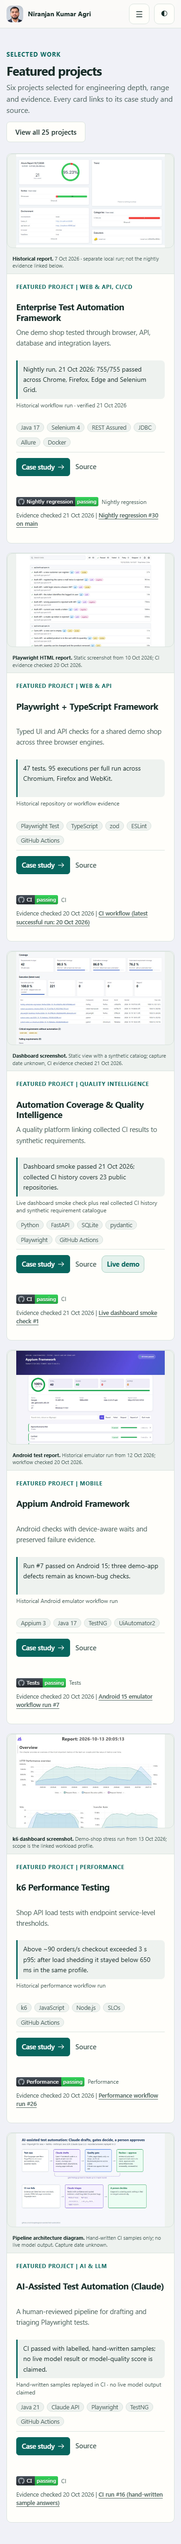
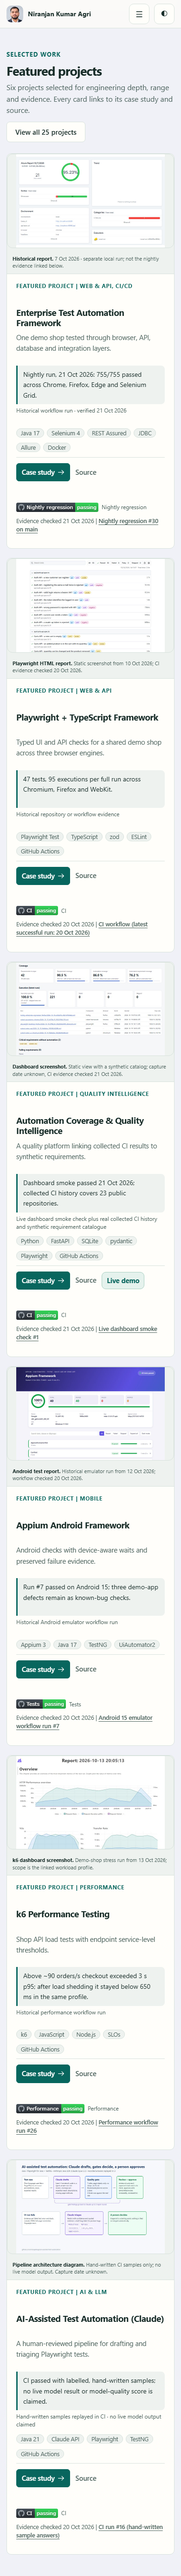
Align featured project metadata at tablet widths

diff --git a/projects/ai-assisted-testing.html b/projects/ai-assisted-testing.html
@@ -2,7 +2,7 @@
 <html lang="en"><head><meta charset="utf-8"><meta name="viewport" content="width=device-width, initial-scale=1">
 <title>AI-Assisted Test Automation (Claude) | Project case study | Niranjan Kumar Agri</title><meta name="description" content="All Java: a demo app in the repository, the Anthropic Java SDK with typed structured outputs, repair rounds fed by the gate, an approve step that marks AI-written tests, and AI failure triage into product bug, test bug, environment or flaky. Answers are recorded, so CI replays them without an API key; until the first live run, CI runs the pipeline on hand-written sample answers that every report labels as samples.">
 <link rel="canonical" href="https://niranjankagri.github.io/projects/ai-assisted-testing.html"><meta property="og:title" content="AI-Assisted Test Automation (Claude) | Niranjan Kumar Agri"><meta property="og:description" content="All Java: a demo app in the repository, the Anthropic Java SDK with typed structured outputs, repair rounds fed by the gate, an approve step that marks AI-written tests, and AI failure triage into product bug, test bug, environment or flaky. Answers are recorded, so CI replays them without an API key; until the first live run, CI runs the pipeline on hand-written sample answers that every report labels as samples."><meta property="og:type" content="article"><meta property="og:url" content="https://niranjankagri.github.io/projects/ai-assisted-testing.html"><meta property="og:image" content="https://niranjankagri.github.io/img/ai-testing.jpg"><meta name="twitter:card" content="summary_large_image">
-<link rel="stylesheet" href="../style.css?v=2cf59285fc9c"><script>try{var t=localStorage.getItem('na-theme');if(t)document.documentElement.dataset.theme=t}catch(e){}</script></head>
+<link rel="stylesheet" href="../style.css?v=ca7ec084cedc"><script>try{var t=localStorage.getItem('na-theme');if(t)document.documentElement.dataset.theme=t}catch(e){}</script></head>
 <body>
 <a class="skip" href="#main">Skip to content</a>
 <header class="nav"><div class="wrap">
@@ -34,4 +34,4 @@ ai approve TC-103 Your Name         :: move a passed draft into src/test</code><
   <nav aria-label="Evidence"><h2>Evidence</h2><a href="../projects/playwright-typescript.html#results">Cross-browser execution</a><a href="../projects/k6-performance.html#results">Performance testing</a><a href="../projects/quality-intelligence.html#results">Quality intelligence</a></nav>
   <nav aria-label="Connect"><h2>Connect</h2><a href="mailto:niranjankagri@gmail.com">Email</a><a href="https://www.linkedin.com/in/niranjan-kumar-agri/" target="_blank" rel="noopener">LinkedIn</a><a href="https://github.com/niranjankagri/" target="_blank" rel="noopener">GitHub</a><a href="../Niranjan_Kumar_Agri_CV_Technical_Lead_QA_SDET.pdf" download>Download CV</a><a href="https://github.com/niranjankagri/niranjankagri.github.io" target="_blank" rel="noopener">Website source</a></nav>
 </div></footer>
-<script src="../theme.js?v=2cf59285fc9c" defer></script></body></html>
+<script src="../theme.js?v=ca7ec084cedc" defer></script></body></html>

diff --git a/projects/llm-feature-testing.html b/projects/llm-feature-testing.html
@@ -2,7 +2,7 @@
 <html lang="en"><head><meta charset="utf-8"><meta name="viewport" content="width=device-width, initial-scale=1">
 <title>Testing an LLM Feature (Claude) | Project case study | Niranjan Kumar Agri</title><meta name="description" content="An HR policy assistant on Claude and the harness that decides whether it can ship: structured replies, deterministic checks for facts, citations, a canary and colleagues&#x27; data, a calibrated groundedness judge, pass rates per area, and 90 tests of the harness itself, including a run on hand-written answers with planted leaks that the harness must catch.">
 <link rel="canonical" href="https://niranjankagri.github.io/projects/llm-feature-testing.html"><meta property="og:title" content="Testing an LLM Feature (Claude) | Niranjan Kumar Agri"><meta property="og:description" content="An HR policy assistant on Claude and the harness that decides whether it can ship: structured replies, deterministic checks for facts, citations, a canary and colleagues&#x27; data, a calibrated groundedness judge, pass rates per area, and 90 tests of the harness itself, including a run on hand-written answers with planted leaks that the harness must catch."><meta property="og:type" content="article"><meta property="og:url" content="https://niranjankagri.github.io/projects/llm-feature-testing.html"><meta property="og:image" content="https://niranjankagri.github.io/img/llm-evals.jpg"><meta name="twitter:card" content="summary_large_image">
-<link rel="stylesheet" href="../style.css?v=2cf59285fc9c"><script>try{var t=localStorage.getItem('na-theme');if(t)document.documentElement.dataset.theme=t}catch(e){}</script></head>
+<link rel="stylesheet" href="../style.css?v=ca7ec084cedc"><script>try{var t=localStorage.getItem('na-theme');if(t)document.documentElement.dataset.theme=t}catch(e){}</script></head>
 <body>
 <a class="skip" href="#main">Skip to content</a>
 <header class="nav"><div class="wrap">
@@ -36,4 +36,4 @@ llm eval                               :: golden set + calibration (needs ANTHRO
   <nav aria-label="Evidence"><h2>Evidence</h2><a href="../projects/playwright-typescript.html#results">Cross-browser execution</a><a href="../projects/k6-performance.html#results">Performance testing</a><a href="../projects/quality-intelligence.html#results">Quality intelligence</a></nav>
   <nav aria-label="Connect"><h2>Connect</h2><a href="mailto:niranjankagri@gmail.com">Email</a><a href="https://www.linkedin.com/in/niranjan-kumar-agri/" target="_blank" rel="noopener">LinkedIn</a><a href="https://github.com/niranjankagri/" target="_blank" rel="noopener">GitHub</a><a href="../Niranjan_Kumar_Agri_CV_Technical_Lead_QA_SDET.pdf" download>Download CV</a><a href="https://github.com/niranjankagri/niranjankagri.github.io" target="_blank" rel="noopener">Website source</a></nav>
 </div></footer>
-<script src="../theme.js?v=2cf59285fc9c" defer></script></body></html>
+<script src="../theme.js?v=ca7ec084cedc" defer></script></body></html>

diff --git a/projects/mobile-test-automation-framework.html b/projects/mobile-test-automation-framework.html
@@ -2,7 +2,7 @@
 <html lang="en"><head><meta charset="utf-8"><meta name="viewport" content="width=device-width, initial-scale=1">
 <title>Mobile Framework (2021, upgraded for Android + iOS) | Project case study | Niranjan Kumar Agri</title><meta name="description" content="My 2021 Appium + TestNG framework, upgraded in 2026 to Appium 3, Java client 11 and Selenium 4 without changing its design: one set of tests for Android and iOS through a platform layer, capabilities per platform in properties files, and a custom HTML report with failure screenshots. Runs green on an Android 15 emulator; the iOS side is ready but not yet run.">
 <link rel="canonical" href="https://niranjankagri.github.io/projects/mobile-test-automation-framework.html"><meta property="og:title" content="Mobile Framework (2021, upgraded for Android + iOS) | Niranjan Kumar Agri"><meta property="og:description" content="My 2021 Appium + TestNG framework, upgraded in 2026 to Appium 3, Java client 11 and Selenium 4 without changing its design: one set of tests for Android and iOS through a platform layer, capabilities per platform in properties files, and a custom HTML report with failure screenshots. Runs green on an Android 15 emulator; the iOS side is ready but not yet run."><meta property="og:type" content="article"><meta property="og:url" content="https://niranjankagri.github.io/projects/mobile-test-automation-framework.html"><meta property="og:image" content="https://niranjankagri.github.io/img/real-devices.jpg"><meta name="twitter:card" content="summary_large_image">
-<link rel="stylesheet" href="../style.css?v=2cf59285fc9c"><script>try{var t=localStorage.getItem('na-theme');if(t)document.documentElement.dataset.theme=t}catch(e){}</script></head>
+<link rel="stylesheet" href="../style.css?v=ca7ec084cedc"><script>try{var t=localStorage.getItem('na-theme');if(t)document.documentElement.dataset.theme=t}catch(e){}</script></head>
 <body>
 <a class="skip" href="#main">Skip to content</a>
 <header class="nav"><div class="wrap">
@@ -27,4 +27,4 @@
   <nav aria-label="Evidence"><h2>Evidence</h2><a href="../projects/playwright-typescript.html#results">Cross-browser execution</a><a href="../projects/k6-performance.html#results">Performance testing</a><a href="../projects/quality-intelligence.html#results">Quality intelligence</a></nav>
   <nav aria-label="Connect"><h2>Connect</h2><a href="mailto:niranjankagri@gmail.com">Email</a><a href="https://www.linkedin.com/in/niranjan-kumar-agri/" target="_blank" rel="noopener">LinkedIn</a><a href="https://github.com/niranjankagri/" target="_blank" rel="noopener">GitHub</a><a href="../Niranjan_Kumar_Agri_CV_Technical_Lead_QA_SDET.pdf" download>Download CV</a><a href="https://github.com/niranjankagri/niranjankagri.github.io" target="_blank" rel="noopener">Website source</a></nav>
 </div></footer>
-<script src="../theme.js?v=2cf59285fc9c" defer></script></body></html>
+<script src="../theme.js?v=ca7ec084cedc" defer></script></body></html>

diff --git a/projects/quality-intelligence.html b/projects/quality-intelligence.html
@@ -2,7 +2,7 @@
 <html lang="en"><head><meta charset="utf-8"><meta name="viewport" content="width=device-width, initial-scale=1">
 <title>Automation Coverage &amp; Quality Intelligence | Project case study | Niranjan Kumar Agri</title><meta name="description" content="A quality engineering platform that imports daily CI results from 23 public repositories and 59 workflow jobs, links them to a synthetic requirement catalog, and provides history, traceability, pipeline grouping, trends, comparisons and release gates. The public dashboard reads the collected history.">
 <link rel="canonical" href="https://niranjankagri.github.io/projects/quality-intelligence.html"><meta property="og:title" content="Automation Coverage &amp; Quality Intelligence | Niranjan Kumar Agri"><meta property="og:description" content="A quality engineering platform that imports daily CI results from 23 public repositories and 59 workflow jobs, links them to a synthetic requirement catalog, and provides history, traceability, pipeline grouping, trends, comparisons and release gates. The public dashboard reads the collected history."><meta property="og:type" content="article"><meta property="og:url" content="https://niranjankagri.github.io/projects/quality-intelligence.html"><meta property="og:image" content="https://niranjankagri.github.io/img/quality-intelligence.jpg"><meta name="twitter:card" content="summary_large_image">
-<link rel="stylesheet" href="../style.css?v=2cf59285fc9c"><script>try{var t=localStorage.getItem('na-theme');if(t)document.documentElement.dataset.theme=t}catch(e){}</script></head>
+<link rel="stylesheet" href="../style.css?v=ca7ec084cedc"><script>try{var t=localStorage.getItem('na-theme');if(t)document.documentElement.dataset.theme=t}catch(e){}</script></head>
 <body>
 <a class="skip" href="#main">Skip to content</a>
 <header class="nav"><div class="wrap">
@@ -31,4 +31,4 @@ qi dashboard --catalog samples/catalog.toml --database demo-output/quality.db</c
   <nav aria-label="Evidence"><h2>Evidence</h2><a href="../projects/playwright-typescript.html#results">Cross-browser execution</a><a href="../projects/k6-performance.html#results">Performance testing</a><a href="../projects/quality-intelligence.html#results">Quality intelligence</a></nav>
   <nav aria-label="Connect"><h2>Connect</h2><a href="mailto:niranjankagri@gmail.com">Email</a><a href="https://www.linkedin.com/in/niranjan-kumar-agri/" target="_blank" rel="noopener">LinkedIn</a><a href="https://github.com/niranjankagri/" target="_blank" rel="noopener">GitHub</a><a href="../Niranjan_Kumar_Agri_CV_Technical_Lead_QA_SDET.pdf" download>Download CV</a><a href="https://github.com/niranjankagri/niranjankagri.github.io" target="_blank" rel="noopener">Website source</a></nav>
 </div></footer>
-<script src="../theme.js?v=2cf59285fc9c" defer></script></body></html>
+<script src="../theme.js?v=ca7ec084cedc" defer></script></body></html>

diff --git a/projects/java-selenium-testng-pom-framework.html b/projects/java-selenium-testng-pom-framework.html
@@ -2,7 +2,7 @@
 <html lang="en"><head><meta charset="utf-8"><meta name="viewport" content="width=device-width, initial-scale=1">
 <title>Selenium Page Object Framework (2024, upgraded) | Project case study | Niranjan Kumar Agri</title><meta name="description" content="My January 2024 Selenium + TestNG page object framework for OrangeHRM, upgraded step by step in 2026: explicit waits instead of fixed sleeps, browser and headless mode from a config file, and an Extent report with a screenshot on every failure. The upgrade also fixed a locator bug that had failed the logout test since 2024.">
 <link rel="canonical" href="https://niranjankagri.github.io/projects/java-selenium-testng-pom-framework.html"><meta property="og:title" content="Selenium Page Object Framework (2024, upgraded) | Niranjan Kumar Agri"><meta property="og:description" content="My January 2024 Selenium + TestNG page object framework for OrangeHRM, upgraded step by step in 2026: explicit waits instead of fixed sleeps, browser and headless mode from a config file, and an Extent report with a screenshot on every failure. The upgrade also fixed a locator bug that had failed the logout test since 2024."><meta property="og:type" content="article"><meta property="og:url" content="https://niranjankagri.github.io/projects/java-selenium-testng-pom-framework.html"><meta property="og:image" content="https://niranjankagri.github.io/img/selenium.jpg"><meta name="twitter:card" content="summary_large_image">
-<link rel="stylesheet" href="../style.css?v=2cf59285fc9c"><script>try{var t=localStorage.getItem('na-theme');if(t)document.documentElement.dataset.theme=t}catch(e){}</script></head>
+<link rel="stylesheet" href="../style.css?v=ca7ec084cedc"><script>try{var t=localStorage.getItem('na-theme');if(t)document.documentElement.dataset.theme=t}catch(e){}</script></head>
 <body>
 <a class="skip" href="#main">Skip to content</a>
 <header class="nav"><div class="wrap">
@@ -27,4 +27,4 @@
   <nav aria-label="Evidence"><h2>Evidence</h2><a href="../projects/playwright-typescript.html#results">Cross-browser execution</a><a href="../projects/k6-performance.html#results">Performance testing</a><a href="../projects/quality-intelligence.html#results">Quality intelligence</a></nav>
   <nav aria-label="Connect"><h2>Connect</h2><a href="mailto:niranjankagri@gmail.com">Email</a><a href="https://www.linkedin.com/in/niranjan-kumar-agri/" target="_blank" rel="noopener">LinkedIn</a><a href="https://github.com/niranjankagri/" target="_blank" rel="noopener">GitHub</a><a href="../Niranjan_Kumar_Agri_CV_Technical_Lead_QA_SDET.pdf" download>Download CV</a><a href="https://github.com/niranjankagri/niranjankagri.github.io" target="_blank" rel="noopener">Website source</a></nav>
 </div></footer>
-<script src="../theme.js?v=2cf59285fc9c" defer></script></body></html>
+<script src="../theme.js?v=ca7ec084cedc" defer></script></body></html>

diff --git a/projects/cucumber-bdd-demo.html b/projects/cucumber-bdd-demo.html
@@ -2,7 +2,7 @@
 <html lang="en"><head><meta charset="utf-8"><meta name="viewport" content="width=device-width, initial-scale=1">
 <title>Cucumber BDD Demo (2022, upgraded) | Project case study | Niranjan Kumar Agri</title><meta name="description" content="My first Cucumber project from 2022, which no longer built, brought to Java 17, Cucumber 8 (JUnit Platform runners) and Selenium 4 step by step, then split into layers: runners, step definitions, page objects, hooks and utils. Hooks attach a screenshot on failure, and a Scenario Outline that used to pass without checking anything now asserts each row.">
 <link rel="canonical" href="https://niranjankagri.github.io/projects/cucumber-bdd-demo.html"><meta property="og:title" content="Cucumber BDD Demo (2022, upgraded) | Niranjan Kumar Agri"><meta property="og:description" content="My first Cucumber project from 2022, which no longer built, brought to Java 17, Cucumber 8 (JUnit Platform runners) and Selenium 4 step by step, then split into layers: runners, step definitions, page objects, hooks and utils. Hooks attach a screenshot on failure, and a Scenario Outline that used to pass without checking anything now asserts each row."><meta property="og:type" content="article"><meta property="og:url" content="https://niranjankagri.github.io/projects/cucumber-bdd-demo.html"><meta property="og:image" content="https://niranjankagri.github.io/img/cucumber.jpg"><meta name="twitter:card" content="summary_large_image">
-<link rel="stylesheet" href="../style.css?v=2cf59285fc9c"><script>try{var t=localStorage.getItem('na-theme');if(t)document.documentElement.dataset.theme=t}catch(e){}</script></head>
+<link rel="stylesheet" href="../style.css?v=ca7ec084cedc"><script>try{var t=localStorage.getItem('na-theme');if(t)document.documentElement.dataset.theme=t}catch(e){}</script></head>
 <body>
 <a class="skip" href="#main">Skip to content</a>
 <header class="nav"><div class="wrap">
@@ -27,4 +27,4 @@
   <nav aria-label="Evidence"><h2>Evidence</h2><a href="../projects/playwright-typescript.html#results">Cross-browser execution</a><a href="../projects/k6-performance.html#results">Performance testing</a><a href="../projects/quality-intelligence.html#results">Quality intelligence</a></nav>
   <nav aria-label="Connect"><h2>Connect</h2><a href="mailto:niranjankagri@gmail.com">Email</a><a href="https://www.linkedin.com/in/niranjan-kumar-agri/" target="_blank" rel="noopener">LinkedIn</a><a href="https://github.com/niranjankagri/" target="_blank" rel="noopener">GitHub</a><a href="../Niranjan_Kumar_Agri_CV_Technical_Lead_QA_SDET.pdf" download>Download CV</a><a href="https://github.com/niranjankagri/niranjankagri.github.io" target="_blank" rel="noopener">Website source</a></nav>
 </div></footer>
-<script src="../theme.js?v=2cf59285fc9c" defer></script></body></html>
+<script src="../theme.js?v=ca7ec084cedc" defer></script></body></html>

diff --git a/projects/integration-testing-testcontainers.html b/projects/integration-testing-testcontainers.html
@@ -2,7 +2,7 @@
 <html lang="en"><head><meta charset="utf-8"><meta name="viewport" content="width=device-width, initial-scale=1">
 <title>Integration Testing with Testcontainers (Kafka, GraphQL) | Project case study | Niranjan Kumar Agri</title><meta name="description" content="An event-driven order service tested through its GraphQL API and Kafka topics: migrations on the real database, schema and validation errors, published events, idempotent consumption, retries and dead-letter handling, plus mutation checks of the tests themselves.">
 <link rel="canonical" href="https://niranjankagri.github.io/projects/integration-testing-testcontainers.html"><meta property="og:title" content="Integration Testing with Testcontainers (Kafka, GraphQL) | Niranjan Kumar Agri"><meta property="og:description" content="An event-driven order service tested through its GraphQL API and Kafka topics: migrations on the real database, schema and validation errors, published events, idempotent consumption, retries and dead-letter handling, plus mutation checks of the tests themselves."><meta property="og:type" content="article"><meta property="og:url" content="https://niranjankagri.github.io/projects/integration-testing-testcontainers.html"><meta property="og:image" content="https://niranjankagri.github.io/img/testcontainers.jpg"><meta name="twitter:card" content="summary_large_image">
-<link rel="stylesheet" href="../style.css?v=2cf59285fc9c"><script>try{var t=localStorage.getItem('na-theme');if(t)document.documentElement.dataset.theme=t}catch(e){}</script></head>
+<link rel="stylesheet" href="../style.css?v=ca7ec084cedc"><script>try{var t=localStorage.getItem('na-theme');if(t)document.documentElement.dataset.theme=t}catch(e){}</script></head>
 <body>
 <a class="skip" href="#main">Skip to content</a>
 <header class="nav"><div class="wrap">
@@ -33,4 +33,4 @@ mvnw.cmd spring-boot:test-run   :: the service with the same containers, GraphiQ
   <nav aria-label="Evidence"><h2>Evidence</h2><a href="../projects/playwright-typescript.html#results">Cross-browser execution</a><a href="../projects/k6-performance.html#results">Performance testing</a><a href="../projects/quality-intelligence.html#results">Quality intelligence</a></nav>
   <nav aria-label="Connect"><h2>Connect</h2><a href="mailto:niranjankagri@gmail.com">Email</a><a href="https://www.linkedin.com/in/niranjan-kumar-agri/" target="_blank" rel="noopener">LinkedIn</a><a href="https://github.com/niranjankagri/" target="_blank" rel="noopener">GitHub</a><a href="../Niranjan_Kumar_Agri_CV_Technical_Lead_QA_SDET.pdf" download>Download CV</a><a href="https://github.com/niranjankagri/niranjankagri.github.io" target="_blank" rel="noopener">Website source</a></nav>
 </div></footer>
-<script src="../theme.js?v=2cf59285fc9c" defer></script></body></html>
+<script src="../theme.js?v=ca7ec084cedc" defer></script></body></html>

diff --git a/projects/accessibility-visual-testing.html b/projects/accessibility-visual-testing.html
@@ -2,7 +2,7 @@
 <html lang="en"><head><meta charset="utf-8"><meta name="viewport" content="width=device-width, initial-scale=1">
 <title>Accessibility and Visual Regression Testing | Project case study | Niranjan Kumar Agri</title><meta name="description" content="WCAG 2.2 AA checks with axe-core in light and dark mode and in every state, keyboard and focus tests for what axe cannot see, reflow and reduced motion, and 21 screenshot baselines rendered in the Playwright Linux image with zero pixel tolerance.">
 <link rel="canonical" href="https://niranjankagri.github.io/projects/accessibility-visual-testing.html"><meta property="og:title" content="Accessibility and Visual Regression Testing | Niranjan Kumar Agri"><meta property="og:description" content="WCAG 2.2 AA checks with axe-core in light and dark mode and in every state, keyboard and focus tests for what axe cannot see, reflow and reduced motion, and 21 screenshot baselines rendered in the Playwright Linux image with zero pixel tolerance."><meta property="og:type" content="article"><meta property="og:url" content="https://niranjankagri.github.io/projects/accessibility-visual-testing.html"><meta property="og:image" content="https://niranjankagri.github.io/img/a11y-visual.jpg"><meta name="twitter:card" content="summary_large_image">
-<link rel="stylesheet" href="../style.css?v=2cf59285fc9c"><script>try{var t=localStorage.getItem('na-theme');if(t)document.documentElement.dataset.theme=t}catch(e){}</script></head>
+<link rel="stylesheet" href="../style.css?v=ca7ec084cedc"><script>try{var t=localStorage.getItem('na-theme');if(t)document.documentElement.dataset.theme=t}catch(e){}</script></head>
 <body>
 <a class="skip" href="#main">Skip to content</a>
 <header class="nav"><div class="wrap">
@@ -33,4 +33,4 @@ npm run test:defects     :: every planted defect must be caught</code></pre></se
   <nav aria-label="Evidence"><h2>Evidence</h2><a href="../projects/playwright-typescript.html#results">Cross-browser execution</a><a href="../projects/k6-performance.html#results">Performance testing</a><a href="../projects/quality-intelligence.html#results">Quality intelligence</a></nav>
   <nav aria-label="Connect"><h2>Connect</h2><a href="mailto:niranjankagri@gmail.com">Email</a><a href="https://www.linkedin.com/in/niranjan-kumar-agri/" target="_blank" rel="noopener">LinkedIn</a><a href="https://github.com/niranjankagri/" target="_blank" rel="noopener">GitHub</a><a href="../Niranjan_Kumar_Agri_CV_Technical_Lead_QA_SDET.pdf" download>Download CV</a><a href="https://github.com/niranjankagri/niranjankagri.github.io" target="_blank" rel="noopener">Website source</a></nav>
 </div></footer>
-<script src="../theme.js?v=2cf59285fc9c" defer></script></body></html>
+<script src="../theme.js?v=ca7ec084cedc" defer></script></body></html>

diff --git a/projects/mobile-real-device-testing.html b/projects/mobile-real-device-testing.html
@@ -2,7 +2,7 @@
 <html lang="en"><head><meta charset="utf-8"><meta name="viewport" content="width=device-width, initial-scale=1">
 <title>Mobile Testing on Real Devices (BrowserStack) | Project case study | Niranjan Kumar Agri</title><meta name="description" content="A mobile-first shop tested with Selenium on real phones through BrowserStack Local (layout, touch targets, keyboards, iOS zoom, checkout), a native iOS app tested with Appium XCUITest on a real iPhone, all within a 100-minute trial.">
 <link rel="canonical" href="https://niranjankagri.github.io/projects/mobile-real-device-testing.html"><meta property="og:title" content="Mobile Testing on Real Devices (BrowserStack) | Niranjan Kumar Agri"><meta property="og:description" content="A mobile-first shop tested with Selenium on real phones through BrowserStack Local (layout, touch targets, keyboards, iOS zoom, checkout), a native iOS app tested with Appium XCUITest on a real iPhone, all within a 100-minute trial."><meta property="og:type" content="article"><meta property="og:url" content="https://niranjankagri.github.io/projects/mobile-real-device-testing.html"><meta property="og:image" content="https://niranjankagri.github.io/img/real-devices.jpg"><meta name="twitter:card" content="summary_large_image">
-<link rel="stylesheet" href="../style.css?v=2cf59285fc9c"><script>try{var t=localStorage.getItem('na-theme');if(t)document.documentElement.dataset.theme=t}catch(e){}</script></head>
+<link rel="stylesheet" href="../style.css?v=ca7ec084cedc"><script>try{var t=localStorage.getItem('na-theme');if(t)document.documentElement.dataset.theme=t}catch(e){}</script></head>
 <body>
 <a class="skip" href="#main">Skip to content</a>
 <header class="nav"><div class="wrap">
@@ -33,4 +33,4 @@ mvnw.cmd test -Dsuite=app         :: native app, real iPhone</code></pre></secti
   <nav aria-label="Evidence"><h2>Evidence</h2><a href="../projects/playwright-typescript.html#results">Cross-browser execution</a><a href="../projects/k6-performance.html#results">Performance testing</a><a href="../projects/quality-intelligence.html#results">Quality intelligence</a></nav>
   <nav aria-label="Connect"><h2>Connect</h2><a href="mailto:niranjankagri@gmail.com">Email</a><a href="https://www.linkedin.com/in/niranjan-kumar-agri/" target="_blank" rel="noopener">LinkedIn</a><a href="https://github.com/niranjankagri/" target="_blank" rel="noopener">GitHub</a><a href="../Niranjan_Kumar_Agri_CV_Technical_Lead_QA_SDET.pdf" download>Download CV</a><a href="https://github.com/niranjankagri/niranjankagri.github.io" target="_blank" rel="noopener">Website source</a></nav>
 </div></footer>
-<script src="../theme.js?v=2cf59285fc9c" defer></script></body></html>
+<script src="../theme.js?v=ca7ec084cedc" defer></script></body></html>

diff --git a/projects/jenkins-kubernetes.html b/projects/jenkins-kubernetes.html
@@ -2,7 +2,7 @@
 <html lang="en"><head><meta charset="utf-8"><meta name="viewport" content="width=device-width, initial-scale=1">
 <title>Jenkins + Kubernetes Test Pipeline | Project case study | Niranjan Kumar Agri</title><meta name="description" content="A declarative Jenkinsfile with parallel stages, parameters, a quality gate and masked credentials; a namespace per build, readiness probes, a smoke Job inside the cluster and API tests through port-forward, all in scripts that CI shares.">
 <link rel="canonical" href="https://niranjankagri.github.io/projects/jenkins-kubernetes.html"><meta property="og:title" content="Jenkins + Kubernetes Test Pipeline | Niranjan Kumar Agri"><meta property="og:description" content="A declarative Jenkinsfile with parallel stages, parameters, a quality gate and masked credentials; a namespace per build, readiness probes, a smoke Job inside the cluster and API tests through port-forward, all in scripts that CI shares."><meta property="og:type" content="article"><meta property="og:url" content="https://niranjankagri.github.io/projects/jenkins-kubernetes.html"><meta property="og:image" content="https://niranjankagri.github.io/img/jenkins.jpg"><meta name="twitter:card" content="summary_large_image">
-<link rel="stylesheet" href="../style.css?v=2cf59285fc9c"><script>try{var t=localStorage.getItem('na-theme');if(t)document.documentElement.dataset.theme=t}catch(e){}</script></head>
+<link rel="stylesheet" href="../style.css?v=ca7ec084cedc"><script>try{var t=localStorage.getItem('na-theme');if(t)document.documentElement.dataset.theme=t}catch(e){}</script></head>
 <body>
 <a class="skip" href="#main">Skip to content</a>
 <header class="nav"><div class="wrap">
@@ -34,4 +34,4 @@ scripts/run-jenkins-build.sh                                      # start the jo
   <nav aria-label="Evidence"><h2>Evidence</h2><a href="../projects/playwright-typescript.html#results">Cross-browser execution</a><a href="../projects/k6-performance.html#results">Performance testing</a><a href="../projects/quality-intelligence.html#results">Quality intelligence</a></nav>
   <nav aria-label="Connect"><h2>Connect</h2><a href="mailto:niranjankagri@gmail.com">Email</a><a href="https://www.linkedin.com/in/niranjan-kumar-agri/" target="_blank" rel="noopener">LinkedIn</a><a href="https://github.com/niranjankagri/" target="_blank" rel="noopener">GitHub</a><a href="../Niranjan_Kumar_Agri_CV_Technical_Lead_QA_SDET.pdf" download>Download CV</a><a href="https://github.com/niranjankagri/niranjankagri.github.io" target="_blank" rel="noopener">Website source</a></nav>
 </div></footer>
-<script src="../theme.js?v=2cf59285fc9c" defer></script></body></html>
+<script src="../theme.js?v=ca7ec084cedc" defer></script></body></html>

diff --git a/projects/pact-contract.html b/projects/pact-contract.html
@@ -2,7 +2,7 @@
 <html lang="en"><head><meta charset="utf-8"><meta name="viewport" content="width=device-width, initial-scale=1">
 <title>Pact Contract Testing | Project case study | Niranjan Kumar Agri</title><meta name="description" content="Consumer-driven contracts with Pact V4: matchers and provider states with parameters on the consumer side, JUnit 5 verification of the real Spring Boot app with pending and WIP pacts, and publish, can-i-deploy and record-deployment in GitHub Actions.">
 <link rel="canonical" href="https://niranjankagri.github.io/projects/pact-contract.html"><meta property="og:title" content="Pact Contract Testing | Niranjan Kumar Agri"><meta property="og:description" content="Consumer-driven contracts with Pact V4: matchers and provider states with parameters on the consumer side, JUnit 5 verification of the real Spring Boot app with pending and WIP pacts, and publish, can-i-deploy and record-deployment in GitHub Actions."><meta property="og:type" content="article"><meta property="og:url" content="https://niranjankagri.github.io/projects/pact-contract.html"><meta property="og:image" content="https://niranjankagri.github.io/img/pact.jpg"><meta name="twitter:card" content="summary_large_image">
-<link rel="stylesheet" href="../style.css?v=2cf59285fc9c"><script>try{var t=localStorage.getItem('na-theme');if(t)document.documentElement.dataset.theme=t}catch(e){}</script></head>
+<link rel="stylesheet" href="../style.css?v=ca7ec084cedc"><script>try{var t=localStorage.getItem('na-theme');if(t)document.documentElement.dataset.theme=t}catch(e){}</script></head>
 <body>
 <a class="skip" href="#main">Skip to content</a>
 <header class="nav"><div class="wrap">
@@ -36,4 +36,4 @@ npm run broker:down</code></pre></section><section aria-labelledby="workflow"><h
   <nav aria-label="Evidence"><h2>Evidence</h2><a href="../projects/playwright-typescript.html#results">Cross-browser execution</a><a href="../projects/k6-performance.html#results">Performance testing</a><a href="../projects/quality-intelligence.html#results">Quality intelligence</a></nav>
   <nav aria-label="Connect"><h2>Connect</h2><a href="mailto:niranjankagri@gmail.com">Email</a><a href="https://www.linkedin.com/in/niranjan-kumar-agri/" target="_blank" rel="noopener">LinkedIn</a><a href="https://github.com/niranjankagri/" target="_blank" rel="noopener">GitHub</a><a href="../Niranjan_Kumar_Agri_CV_Technical_Lead_QA_SDET.pdf" download>Download CV</a><a href="https://github.com/niranjankagri/niranjankagri.github.io" target="_blank" rel="noopener">Website source</a></nav>
 </div></footer>
-<script src="../theme.js?v=2cf59285fc9c" defer></script></body></html>
+<script src="../theme.js?v=ca7ec084cedc" defer></script></body></html>

diff --git a/projects/security-testing-zap.html b/projects/security-testing-zap.html
@@ -2,7 +2,7 @@
 <html lang="en"><head><meta charset="utf-8"><meta name="viewport" content="width=device-width, initial-scale=1">
 <title>Security Testing with OWASP ZAP | Project case study | Niranjan Kumar Agri</title><meta name="description" content="OWASP ZAP baseline and full scans of a hardened and a vulnerable build on a private Docker network, a rules file with FAIL/WARN/IGNORE decisions, a verdict job in CI, and API tests for IDOR, mass assignment and brute force.">
 <link rel="canonical" href="https://niranjankagri.github.io/projects/security-testing-zap.html"><meta property="og:title" content="Security Testing with OWASP ZAP | Niranjan Kumar Agri"><meta property="og:description" content="OWASP ZAP baseline and full scans of a hardened and a vulnerable build on a private Docker network, a rules file with FAIL/WARN/IGNORE decisions, a verdict job in CI, and API tests for IDOR, mass assignment and brute force."><meta property="og:type" content="article"><meta property="og:url" content="https://niranjankagri.github.io/projects/security-testing-zap.html"><meta property="og:image" content="https://niranjankagri.github.io/img/zap-security.jpg"><meta name="twitter:card" content="summary_large_image">
-<link rel="stylesheet" href="../style.css?v=2cf59285fc9c"><script>try{var t=localStorage.getItem('na-theme');if(t)document.documentElement.dataset.theme=t}catch(e){}</script></head>
+<link rel="stylesheet" href="../style.css?v=ca7ec084cedc"><script>try{var t=localStorage.getItem('na-theme');if(t)document.documentElement.dataset.theme=t}catch(e){}</script></head>
 <body>
 <a class="skip" href="#main">Skip to content</a>
 <header class="nav"><div class="wrap">
@@ -34,4 +34,4 @@ npm run verify -- --full :: the verdict</code></pre></section><section aria-labe
   <nav aria-label="Evidence"><h2>Evidence</h2><a href="../projects/playwright-typescript.html#results">Cross-browser execution</a><a href="../projects/k6-performance.html#results">Performance testing</a><a href="../projects/quality-intelligence.html#results">Quality intelligence</a></nav>
   <nav aria-label="Connect"><h2>Connect</h2><a href="mailto:niranjankagri@gmail.com">Email</a><a href="https://www.linkedin.com/in/niranjan-kumar-agri/" target="_blank" rel="noopener">LinkedIn</a><a href="https://github.com/niranjankagri/" target="_blank" rel="noopener">GitHub</a><a href="../Niranjan_Kumar_Agri_CV_Technical_Lead_QA_SDET.pdf" download>Download CV</a><a href="https://github.com/niranjankagri/niranjankagri.github.io" target="_blank" rel="noopener">Website source</a></nav>
 </div></footer>
-<script src="../theme.js?v=2cf59285fc9c" defer></script></body></html>
+<script src="../theme.js?v=ca7ec084cedc" defer></script></body></html>
